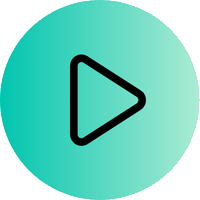
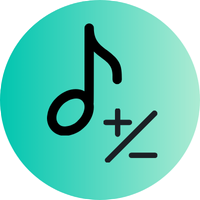
ロゴとタイトルを動的に変更

diff --git a/frontend/src/components/tools/Tools.js b/frontend/src/components/tools/Tools.js
@@ -1,13 +1,30 @@
 // App.js
-import React from "react";
+import React, { useLayoutEffect, useState } from "react";
 import Footer from "../common/Footer";
-import { BrowserRouter as Router, Routes, Route } from "react-router-dom";
+import { Routes, Route, useLocation, matchPath } from "react-router-dom";
 import TopPage from "./TopPage";
 import PitchShifter from "../pitchShifter/PitchShifter";
 import Navbar from "../common/Navbar";
-import Icon from "../../assets/pitch-shifter.png";
+import PitchShifterIcon from "../../assets/pitch-shifter.png";
+import AudioToolsIcon from "../../assets/audio-tools.png";
 
 function Tools() {
+  const location = useLocation();
+  const [title, setTitle] = useState();
+  const [icon, setIcon] = useState();
+
+  useLayoutEffect(() => {
+    if (matchPath("/pitch-shifter", location.pathname)) {
+      setIcon(PitchShifterIcon);
+      setTitle("Audio Pitch Shifter");
+      document.title = "Audio Pitch Shifter";
+    } else {
+      setIcon(AudioToolsIcon);
+      setTitle("AngoCat Tools");
+      document.title = "AngoCat Tools";
+    }
+  }, [location.pathname]);
+
   return (
     <div
       className="w-full h-full flex flex-col"
@@ -15,19 +32,17 @@ function Tools() {
         flex: 1,
       }}
     >
-      <Navbar title="test" />
+      <Navbar title={title} icon={icon} />
       <div
         style={{
           flexGrow: "inherit",
         }}
       >
-        <Router>
-          <Routes>
-            <Route path="/" element={<TopPage />} />
-            <Route path="/pitch-shifter" element={<PitchShifter />} />
-            <Route path="*" element={<TopPage />} />
-          </Routes>
-        </Router>
+        <Routes>
+          <Route path="/" element={<TopPage />} />
+          <Route path="/pitch-shifter" element={<PitchShifter />} />
+          <Route path="*" element={<TopPage />} />
+        </Routes>
       </div>
       <Footer />
     </div>

diff --git a/frontend/src/components/tools/TopPage.js b/frontend/src/components/tools/TopPage.js
@@ -1,16 +1,17 @@
 // App.js
 import React from "react";
+import PitchShifterIcon from "../../assets/pitch-shifter.png";
 
 function TopPage() {
   return (
     <div className="w-full">
       <div className="container">
-        <a href="/pitch-shifter/" className="card bg-neutral w-96 shadow-2xl">
+        <a
+          href="/pitch-shifter/"
+          className="card bg-neutral w-96 shadow-2xl pt-8"
+        >
           <figure>
-            <img
-              src="https://img.daisyui.com/images/stock/photo-1606107557195-0e29a4b5b4aa.webp"
-              alt="Shoes"
-            />
+            <img src={PitchShifterIcon} />
           </figure>
           <div className="card-body">
             <h2 className="card-title">Audio Pitch Shifter</h2>

diff --git a/frontend/src/components/common/Navbar.js b/frontend/src/components/common/Navbar.js
@@ -29,13 +29,16 @@ function Navbar(props) {
             <li>
               <a href="/">Home</a>
             </li>
+            <li>
+              <a href="/pitch-shifter">Audio Pitch Shifter</a>
+            </li>
           </ul>
         </div>
       </div>
       <div className="navbar-center">
         <div className="text-2xl font-bold flex">
           <img src={props.icon} style={{ height: 32 }} />
-          <p className="pl-1">{props.title}</p>
+          <p className="ml-2">{props.title}</p>
         </div>
       </div>
       <div className="navbar-end"></div>

diff --git a/frontend/src/components/App.js b/frontend/src/components/App.js
@@ -3,11 +3,14 @@ import React from "react";
 import { createRoot } from "react-dom/client";
 import "../index.css";
 import Tools from "./tools/Tools";
+import { BrowserRouter as Router } from "react-router-dom";
 
 function App() {
   return (
     <div className="w-full h-full">
-      <Tools />
+      <Router>
+        <Tools />
+      </Router>
     </div>
   );
 }

diff --git a/frontend/templates/frontend/index.html b/frontend/templates/frontend/index.html
@@ -4,7 +4,7 @@
    <meta charset="UTF-8">
    <meta http-equiv="X-UA-Compatible" content="IE=edge">
    <meta name="viewport" content="width=device-width, initial-scale=1.0">
-   <title>Youtube Pitch Shifter</title>
+   <title>AngoCat Tools</title>
    {% load static %}
    <link rel="icon" type="image/png" href="{% static 'favicon.png' %}">
 </head>
